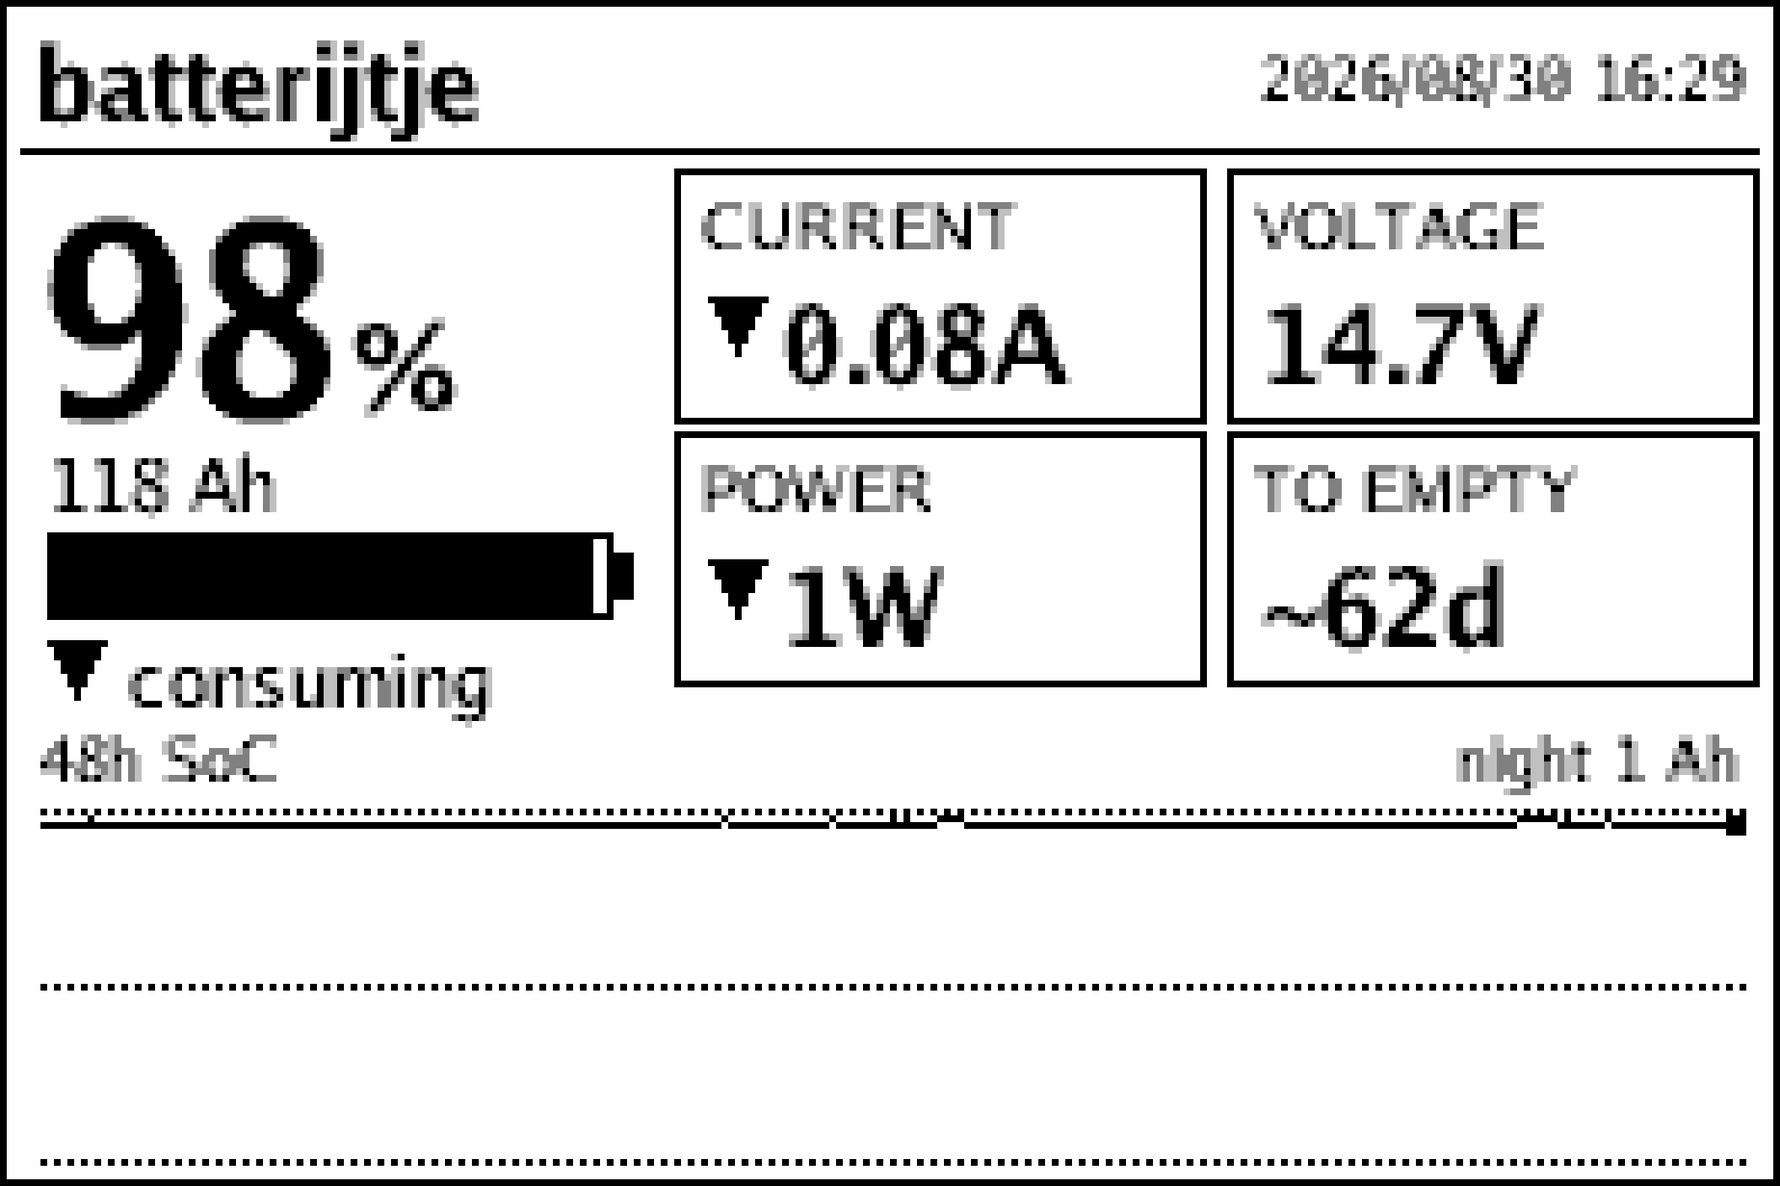
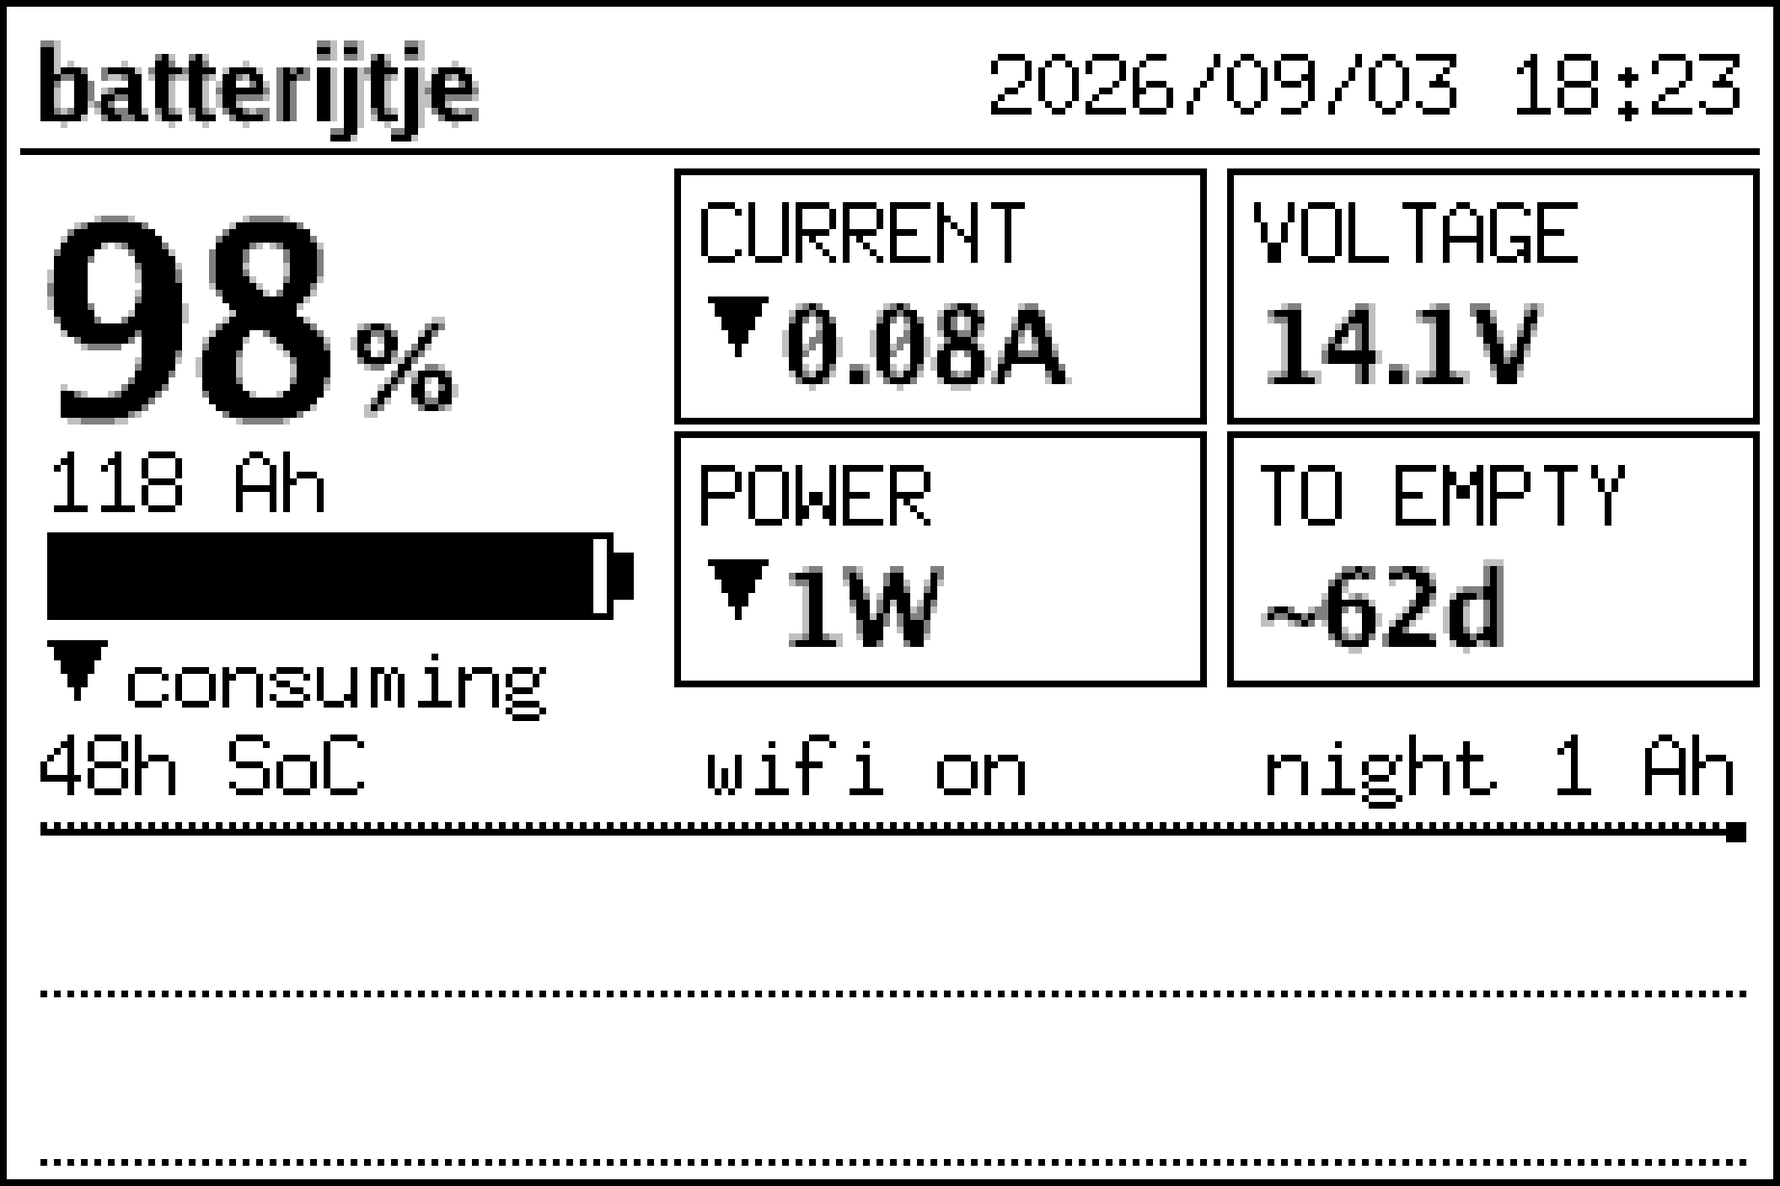
feat(eink): bitmap font for the small text
The dashboard painted in 4-grey, but nothing in RenderDashboard draws a
deliberate mid-tone: the greys existed purely to antialias small text
that looked blocky in 1-bit — an outline face (goregular) asked to
resolve stems at 9-11 px. A bitmap font needs no such rescue; its glyphs
are already 1-bit stencils. That makes mono good enough to switch to,
which is what unblocks partial (non-flashing) refresh later — 4-grey and
partial can't coexist on this controller, since 4-grey uses RAM 0x26 as
its second bit-plane while partial needs it for the previous image.

  fTiny/fSmall  ->  basicfont.Face7x13 (monospace, so the header
                    timestamp stops reflowing as its digits change)
  fTitle/fBig/fPct/fTileV  unchanged — outline, thresholds cleanly

Layout, at a fixed 7 px per character:
- the wifi tag moves from the header to the sparkline label row. The
  header can't hold the title, the tag and a 147 px "?clk" timestamp;
  the full timestamp wins, since a wrong year is the loudest tell that
  the clock is unsynced. Fixed x, not centred, so the field doesn't
  shift by a cell between "wifi on" and "wifi off".
- the plot box drops 2 px so a "night ..." descender clears the top
  gridline; the offline frame's error string is clipped to fit.
- small-face strings are ASCII now (· and – became -, the KEY4 hint got
  shorter): the face has no glyph outside 0x20-0x7e and would paint
  U+FFFD boxes. RenderSysInfo's columns finally align for real.
[…]

diff --git a/batterylogger/eink/render.go b/batterylogger/eink/render.go
@@ -13,8 +13,8 @@ import (
 	"time"
 
 	"golang.org/x/image/font"
+	"golang.org/x/image/font/basicfont"
 	"golang.org/x/image/font/gofont/gobold"
-	"golang.org/x/image/font/gofont/goregular"
 	"golang.org/x/image/font/opentype"
 	"golang.org/x/image/math/fixed"
 )
@@ -24,13 +24,30 @@ const (
 	H = 176
 )
 
+// The big text is an outline face: at 15-40 px the stems are thick relative to
+// the glyph, so it thresholds to 1-bit cleanly. The small text is a *bitmap*
+// face, drawn on the pixel grid — an outline font at 9-11 px only looked right
+// because 4-grey antialiasing rescued it, and that rescue is what blocks mono
+// (and therefore partial refresh). basicfont.Face7x13 is monospace, which also
+// stops the header timestamp reflowing as its digits change.
+//
+// Bitmap faces cover ASCII 0x20-0x7e only: keep every fTiny/fSmall string ASCII
+// or it renders as U+FFFD boxes.
 var (
 	fTitle = mustFace(gobold.TTF, 15)
 	fBig   = mustFace(gobold.TTF, 40)
 	fPct   = mustFace(gobold.TTF, 18)
-	fSmall = mustFace(goregular.TTF, 11)
-	fTiny  = mustFace(goregular.TTF, 9)
+	fSmall = basicfont.Face7x13
+	fTiny  = basicfont.Face7x13
 	fTileV = mustFace(gobold.TTF, 16)
+)
+
+// cellW is the advance of the bitmap faces, in pixels — handy for laying out
+// fixed-width strings without measuring. wifiTagX is where the wifi tag starts
+// on the sparkline label row, between the window label and the night figure.
+const (
+	cellW    = 7
+	wifiTagX = 104
 )
 
 func mustFace(ttf []byte, px float64) font.Face {
@@ -178,6 +195,16 @@ func durShort(h, m int) string {
 	}
 }
 
+// clip truncates s to at most n bitmap-font cells, marking the cut with "..".
+// Counts runes, not bytes, so a stray non-ASCII byte can't be cut in half.
+func clip(s string, n int) string {
+	r := []rune(s)
+	if len(r) <= n || n < 3 {
+		return s
+	}
+	return string(r[:n-2]) + ".."
+}
+
 // --- the dashboard ---
 
 func RenderDashboard(d *APIData, ferr error) *image.Gray {
@@ -196,7 +223,7 @@ func RenderDashboard(d *APIData, ferr error) *image.Gray {
 		textRight(img, fTiny, W-5, 6, "offline")
 		hline(img, 3, W-4, 22)
 		textTop(img, fBig, 20, 60, "—")
-		textTop(img, fSmall, 20, 110, msg)
+		textTop(img, fSmall, 20, 110, clip(msg, (W-40)/cellW))
 		return img
 	}
 
@@ -209,12 +236,10 @@ func RenderDashboard(d *APIData, ferr error) *image.Gray {
 	if L.Synced == 0 {
 		stamp += " ?clk"
 	}
+	// At 7 px/char the stamp is 112 px, or 147 px with the " ?clk" suffix — that
+	// plus the title leaves no room for the wifi tag, so the tag moved down to
+	// the sparkline label row.
 	textRight(img, fTiny, W-5, 6, stamp)
-	wifiTag := "· wifi on"
-	if d.WifiOff {
-		wifiTag = "· wifi off"
-	}
-	textTop(img, fTiny, 5+textW(fTitle, "batterijtje")+8, 8, wifiTag)
 	hline(img, 3, W-4, 22)
 
 	// ---- left column: SoC hero ----
@@ -286,13 +311,22 @@ func RenderDashboard(d *APIData, ferr error) *image.Gray {
 
 	// ---- sparkline: 48h SoC ----
 	textTop(img, fTiny, 6, 107, windowLabel(d.WindowHours))
-	night := "night –"
+	// Fixed left edge, not centred: "wifi on" and "wifi off" differ by a cell, and
+	// a field that shifts when it changes is exactly what partial refresh hates.
+	wifiTag := "wifi on"
+	if d.WifiOff {
+		wifiTag = "wifi off"
+	}
+	textTop(img, fTiny, wifiTagX, 107, wifiTag)
+	night := "night -"
 	if d.LastNight != nil {
 		night = fmt.Sprintf("night %d Ah", d.LastNight.OutAh)
 	}
 	textRight(img, fTiny, W-6, 107, night)
 
-	px0, py0, px1, py1 := 6, 120, W-6, 172 // plot box (top=100%, bottom=0%)
+	// py0 clears the label row above it: the bitmap face descends 2 px below its
+	// baseline, so a "night ..." g would otherwise sit on the top gridline.
+	px0, py0, px1, py1 := 6, 122, W-6, 172 // plot box (top=100%, bottom=0%)
 	// gridlines 0/50/100
 	dottedHLine(img, px0, px1, py0)
 	dottedHLine(img, px0, px1, (py0+py1)/2)
@@ -354,7 +388,7 @@ func RenderSysInfo(lines []string) *image.Gray {
 		y += 21
 	}
 	hline(img, 3, W-4, H-21)
-	textTop(img, fTiny, 6, H-17, "hold KEY4 3s = power off  ·  tap KEY4 = back")
+	textTop(img, fTiny, 6, H-17, "hold KEY4 3s = off / tap = back")
 	return img
 }
 
@@ -391,8 +425,11 @@ func absI(v int) int {
 }
 
 // blackThreshold: a rendered pixel darker than this becomes a black panel pixel.
-// Set high so anti-aliased text strokes stay solid instead of breaking up.
-const blackThreshold = 176
+// Only the outline faces produce in-between greys now (the bitmap faces emit 0
+// or 255), so this is back to a plain midpoint: the old 176 was biased toward
+// black to keep antialiased 9 px stems alive, and at that value the 16 px tile
+// values clogged — the counters of "8" and the apex of "A" filled in.
+const blackThreshold = 128
 
 // GetBufferFromImage packs the rendered Gray image into the panel's 1-bit buffer.
 func GetBufferFromImage(img *image.Gray) []byte {

diff --git a/batterylogger/eink/main.go b/batterylogger/eink/main.go
@@ -26,6 +26,7 @@ func main() {
 	mono := flag.Bool("mono", false, "1-bit black/white instead of 4-grey")
 	keytest := flag.Bool("keytest", false, "monitor the 4 HAT buttons and print presses")
 	daemon := flag.Bool("daemon", false, "run continuously: paint periodically + on button presses")
+	screen := flag.String("screen", "dashboard", "which frame to render: dashboard | sysinfo | message")
 	flag.Parse()
 
 	if *keytest {
@@ -50,12 +51,23 @@ func main() {
 		log.Fatal(RunDaemon(dbFile))
 	}
 
-	// One-shot: render the dashboard image first (needs no hardware).
-	data, ferr := LoadData(dbFile, 48)
-	if ferr != nil {
-		log.Printf("db: %v (rendering offline frame)", ferr)
+	// One-shot: render the frame first (needs no hardware).
+	var img *image.Gray
+	switch *screen {
+	case "sysinfo": // the KEY4 screen, with stand-in values so it can be checked off-box
+		img = RenderSysInfo([]string{
+			"up   12d 4h 37m", "ip   192.168.178.42", "cpu  46 C",
+			"disk 21.4 / 30 GB free", "rtc  ok (ds3231)",
+		})
+	case "message":
+		img = RenderMessage("bye", "safe to unplug when the LED is dark")
+	default:
+		data, ferr := LoadData(dbFile, 48)
+		if ferr != nil {
+			log.Printf("db: %v (rendering offline frame)", ferr)
+		}
+		img = RenderDashboard(data, ferr)
 	}
-	img := RenderDashboard(data, ferr)
 
 	if *pngPath != "" {
 		var preview *image.Gray

diff --git a/batterylogger/eink/daemon.go b/batterylogger/eink/daemon.go
@@ -177,7 +177,7 @@ func sysInfo(wifiOff bool) []string {
 	}
 	ip := "wifi off"
 	if !wifiOff {
-		ip = "—"
+		ip = "-"
 		if addrs, err := net.InterfaceAddrs(); err == nil {
 			for _, a := range addrs {
 				if n, ok := a.(*net.IPNet); ok && !n.IP.IsLoopback() && n.IP.To4() != nil {

diff --git a/handoff-04-bitmap-fonts.md b/handoff-04-bitmap-fonts.md
@@ -1,0 +1,60 @@
+# Hand-off 04 — Bitmap fonts for the small text (1-bit render path)
+
+**Project:** AccuBox battery logger (`batterijtje`). All changes live in `batterylogger/eink/render.go`. No hardware needed — the whole task is verifiable with `-nopaint -png`.
+
+**Why:** the dashboard currently paints in 4-grey. The greys aren't decorative — nothing in `RenderDashboard` draws a deliberate mid-tone — they exist entirely to antialias small text that looked blocky in 1-bit. That's an outline font (`goregular`) being asked to resolve sub-pixel stems at 9 px, and antialiasing rescuing it.
+
+A **bitmap font** removes the need for the rescue: glyphs are drawn on the pixel grid, so they're already 1-bit stencils and look sharp when thresholded. Fixing this unblocks a mono render path, which in turn unblocks **partial (non-flashing) refresh** — 4-grey and partial are mutually exclusive on this controller, because 4-grey uses RAM `0x26` as its second bit-plane whereas partial needs it to hold the previous image.
+
+Partial refresh is a separate hand-off. This one only needs to make mono look good.
+
+## 1. Swap the small faces to a bitmap font
+
+Monospace is **preferred** — it suits the uppercase tile labels (`CURRENT`, `VOLTAGE`, `POWER`, `TO EMPTY` / `TO FULL`) and it makes the header timestamp stop reflowing as digits change width, which will matter later for partial-update diff regions.
+
+Start with what's already in the dependency tree:
+
+```go
+import "golang.org/x/image/font/basicfont"
+
+fTiny  = basicfont.Face7x13   // was mustFace(goregular.TTF, 9)
+fSmall = basicfont.Face7x13   // was mustFace(goregular.TTF, 11)
+```
+
+`basicfont.Face7x13` is a `font.Face`, so `text`, `textW`, `textTop` and `textRight` need no changes. `golang.org/x/image/font/inconsolata` (`Regular8x16`, `Bold8x16`) is the alternative if 7x13 reads too small or too wide; both are true bitmap faces.
+
+**Keep the outline fonts for the large text.** `fBig` (40 px), `fTitle` (15 px), `fPct` (18 px) and `fTileV` (16 px) threshold cleanly — glyph edges are thin relative to glyph mass. Do not replace them.
+
+Scope check: `fTiny` and `fSmall` are used for the tile labels, the timestamp, the wifi tag, the sparkline labels, the `night N Ah` figure, `charging`/`consuming`, `collecting...`, the remaining-Ah line, the offline/error strings, and `RenderSysInfo` / `RenderMessage`. Sweep all of them.
+
+## 2. Fix the layout where fixed-width breaks it
+
+7 px per character is wider than 9 px `goregular` averages, so some strings will grow. Known pressure points:
+
+- **Tile labels** at `x0+4` inside 78 px boxes. `CURRENT` = 7 chars = 49 px, fits. `TO EMPTY` = 8 chars = 56 px, fits. Verify against the box edge rather than trusting this.
+- **Header**: `batterijtje` + wifi tag on the left, timestamp on the right, all on a 264 px row. The timestamp `2006/01/02 15:04` is 16 chars = 112 px, plus ` ?clk` when the clock is unsynced = 21 chars = 147 px. That is the tightest thing on the screen — check it with the `?clk` suffix present.
+- **`RenderSysInfo`** lines are already written as aligned columns (`up   `, `ip   `, `cpu  `) — those were fudged for a proportional font and will now actually align. Tidy the padding.
+
+If something genuinely won't fit, say so rather than silently shrinking: shortening the timestamp to `01/02 15:04`, or moving the wifi tag onto the sparkline row, are both acceptable and preferred over reintroducing a proportional face. Flag it in the PR description either way.
+
+## 3. Retune `blackThreshold` afterwards
+
+`blackThreshold = 176` biases generously toward black, which was fattening antialiased small glyphs. With the small faces now bitmap (unaffected by the threshold — they emit 0 or 255), this constant only governs the large outline text. Re-check the 40 px SoC number and the 16 px tile values at the current value and adjust for weight if they look thin or clogged.
+
+## 4. Don't change the paint path yet
+
+Leave `RunDaemon`'s `show()` on 4-grey. This hand-off is about making the mono render good enough to switch to; the switch itself, and partial refresh, come after.
+
+## Acceptance
+
+Verified entirely off-hardware:
+
+```
+./batteryeink -nopaint -mono -png mono.png -scale 4
+```
+
+- `mono.png` (which is `Bilevel()` — exactly what the panel would show) is legible at 4× with no glyph reduced to disconnected fragments.
+- Every string stays inside its box or panel edge, including the timestamp with the ` ?clk` suffix and the longest window label (`7d SoC`).
+- `RenderSysInfo` and `RenderMessage` also render cleanly in mono — they're painted by the same `show()` and will inherit whatever mode the dashboard uses.
+- Side-by-side against `-png` without `-mono` (the 4-grey `Quantize4` preview) for a before/after in the PR.
+- `CHANGES.md` updated under _Unreleased_.

diff --git a/README.md b/README.md
@@ -11,9 +11,11 @@ and keeps the history the vendor app throws away.*
 
 ![The rendered 264×176 dashboard frame (4-grey)](docs/dashboard-render.png)
 
-> The actual frame the renderer draws — 264×176, 4-grey: a wall-clock timestamp,
-> the SoC hero + battery bar, Current / Voltage / Power / time-to-empty tiles, and
-> a 48 h state-of-charge sparkline. *(Home-float data; numbers cycle on a trip.)*
+> The actual frame the renderer draws — 264×176: a wall-clock timestamp, the SoC
+> hero + battery bar, Current / Voltage / Power / time-to-empty tiles, and a 48 h
+> state-of-charge sparkline. The small text is a **bitmap font** drawn on the pixel
+> grid, so it stays sharp with no antialiasing to lean on; only the big numbers are
+> an outline face. *(Home-float data; numbers cycle on a trip.)*
 
 An always-on logger + e-ink dashboard for the LiFePO4 battery in a campervan
 (**ECTIVE Accubox 120S** power station). It polls the battery's BLE BMS, stores
@@ -87,7 +89,7 @@ batterylogger/
   eink/                batteryeink — Go renderer for the 2.7" e-Paper HAT
   requirements.txt     pip deps for the logger (installed into the Pi venv)
   deploy.sh            scp the logger to the Pi + restart it
-  systemd/             unit files (logger, wifi-watchdog, eink service + timer, ...)
+  systemd/             unit files (logger, wifi-watchdog, eink daemon, ...)
 van-battery-logger-brief.md   original brief
 handoff-0*.md          design suggestions (assessed; most applied)
 ```
@@ -95,10 +97,12 @@ handoff-0*.md          design suggestions (assessed; most applied)
 `batteryeink` is pure Go and cross-compiles to the Pi Zero's ARMv6 with no
 toolchain (`CGO_ENABLED=0 GOOS=linux GOARCH=arm GOARM=6`; see `eink/build.sh`).
 It reads the SQLite DB read-only (pure-Go `modernc.org/sqlite`), draws a 264×176
-4-grey frame, and drives the panel over SPI (`periph.io`), repainting on a
-systemd timer. `./batteryeink -nopaint -png out.png` dumps the current frame for
-a remote look. (An earlier Flask/Go **web** dashboard was retired once the e-ink
-renderer became self-sufficient; it lives in git history.)
+4-grey frame, and drives the panel over SPI (`periph.io`), repainting every 10 min
+and on a button press. `./batteryeink -nopaint -png out.png` dumps the current
+frame for a remote look — add `-mono` for the 1-bit version, `-scale N` to
+upscale, and `-screen sysinfo|message` for the other two frames. (An earlier
+Flask/Go **web** dashboard was retired once the e-ink renderer became
+self-sufficient; it lives in git history.)
 
 ## Setup (fresh Pi)
 
@@ -157,11 +161,14 @@ cd batterylogger && ./deploy.sh user@hostname.local   # or: export DEPLOY_TARGET
 - [x] Clock guard (started as `fake-hwclock` + a `synced` flag; now a real RTC)
 - [x] Net labelling, overnight-load metric, trapezoidal integration, gap accounting
 - [x] DS3231 RTC on I²C (`dtoverlay=i2c-rtc,ds3231`; retired `fake-hwclock`)
-- [x] E-ink render to a Waveshare 2.7″ HAT — `batteryeink` (Go), on a 10-min timer
+- [x] E-ink render to a Waveshare 2.7″ HAT — `batteryeink` (Go), repainting every 10 min
 - [x] Grayscale (4-level) e-ink rendering for smoother text (`-mono` for 1-bit)
+- [x] Bitmap font for the small text — 1-bit renders sharp without antialiasing
 - [x] E-ink reads SQLite directly; web dashboard retired (renderer is self-sufficient)
 - [ ] Re-verify the coin-cell backup after the RTC solder rework
 - [x] Utilise the 4 HAT buttons (refresh · window · WiFi · info/power-off)
+- [ ] Partial (non-flashing) refresh — needs the mono path (4-grey and partial
+      can't coexist: both want RAM `0x26`)
 - [ ] 3D-printed housing
 - [ ] Log a full multi-day off-grid trip → tag **1.0**
 - [ ] Move development to the spare Pi 3

diff --git a/CLAUDE.md b/CLAUDE.md
@@ -6,10 +6,20 @@ See @van-battery-logger-brief.md.
 Everything lives on the Pi Zero (`username@hostname.local`) under `~/batterylogger/`:
 `logger.py` (BLE poll → SQLite), `batteryeink` (Go: reads SQLite → paints the 2.7"
 e-Paper HAT), `battery.db` (SQLite/WAL). systemd units: `batterylogger.service`,
-`batteryeink.timer`, `wifi-watchdog.service`. A DS3231 RTC keeps the clock across
+`batteryeink.service` (a daemon: 10-min repaint + the 4 HAT buttons),
+`wifi-watchdog.service`. A DS3231 RTC keeps the clock across
 power-cuts. (An earlier Flask/Go web dashboard on :8080 was retired — the panel is
 the display now; `batteryeink -nopaint -png` gives a remote look.) Dev happens
 off-box; deploy the logger with `scp`, the Go binary via `eink/build.sh` + `scp`.
+
+## Render notes
+- **The small text is a bitmap font** (`basicfont.Face7x13`), the big text an outline
+  face. That's deliberate: outline glyphs at 9-11 px only looked right thanks to
+  4-grey antialiasing, and needing that antialiasing is what blocks partial refresh
+  (4-grey uses RAM `0x26` as its second bit-plane; partial needs it for the previous
+  image). **Keep every `fTiny`/`fSmall` string ASCII** — the face has no glyph outside
+  0x20-0x7e and silently paints U+FFFD boxes. Layout is 7 px per character; check new
+  strings against `-nopaint -mono -png x.png -scale 4` before believing they fit.
 
 ## Data notes (read before "fixing" these)
 - **Net measurement, by design.** The AccuBox exposes **one** current at the battery
@@ -22,6 +32,6 @@ off-box; deploy the logger with `scp`, the Go binary via `eink/build.sh` + `scp`
 - **Timestamps are UTC epoch** in the DB (`ts`); the web layer localises with
   `LOCAL_TZ = Europe/Amsterdam` for day/night bucketing. Matches the `../energy` / `../zonde`
   convention. Don't store local time.
-- **No RTC.** `fake-hwclock` (15-min saves) keeps the clock roughly right across
-  power-cuts; each sample carries a `synced` flag; aggregates ignore pre-2023 timestamps.
-  A DS3231 on I²C is the eventual proper fix.
+- **RTC fitted.** A DS3231 on I²C (`dtoverlay=i2c-rtc,ds3231`) keeps the clock across
+  power-cuts, replacing `fake-hwclock`; each sample still carries a `synced` flag
+  (the header shows `?clk` when it's unset) and aggregates ignore pre-2023 timestamps.

diff --git a/CHANGES.md b/CHANGES.md
@@ -12,6 +12,37 @@ Data timestamps are UTC; the dates below are local (Europe/Amsterdam).
 
 Working toward 1.0.
 
+### 2026-09-03 — a bitmap font for the small text
+
+**Changed**
+- **The small faces are now a bitmap font** (`basicfont.Face7x13`) instead of
+  9 px / 11 px `goregular`. An outline font that small can't resolve its stems
+  on the pixel grid, and the only reason it looked acceptable was the 4-grey
+  antialiasing propping it up. A bitmap face is already a 1-bit stencil, so it
+  stays sharp when thresholded — which is what unblocks a mono render path, and
+  with it **partial (non-flashing) refresh**: 4-grey and partial are mutually
+  exclusive on this controller, since 4-grey uses RAM `0x26` as its second
+  bit-plane while partial needs it to hold the previous image. The large text
+  (SoC number, tile values, headings) stays outline — it thresholds cleanly.
+- **The wifi tag moved from the header to the sparkline label row.** At a fixed
+  7 px per character the header can't hold `batterijtje` + the tag + a
+  `2026/09/03 15:04 ?clk` timestamp (147 px). It sits at a fixed x so it doesn't
+  shift between "wifi on" and "wifi off" — a field that moves when it changes is
+  the enemy of a partial-update diff region.
+- **`blackThreshold` 176 → 128.** The 176 bias existed to keep antialiased 9 px
+  stems alive; with the small text now threshold-independent it only fattened
+  the 16 px tile values (the counters of "8" and the apex of "A" filled in).
+- The strings drawn in the small faces are ASCII now (`·` and `–` became `-`,
+  the KEY4 hint got shorter) — a bitmap face has no glyph outside 0x20-0x7e and
+  would otherwise paint U+FFFD boxes. The offline frame's error string is
+  truncated to the panel width instead of running off the edge.
+- The paint path is **unchanged**: the daemon still paints 4-grey. This change
+  only makes mono good enough to switch to.
+
+**Added**
+- `batteryeink -screen sysinfo|message` renders the KEY4 and power-off frames
+  off-hardware, so `-nopaint -png` can check all three screens.
+
 ### 2026-08-30 — the 4 HAT buttons; e-ink becomes a daemon
 
 **Added**
